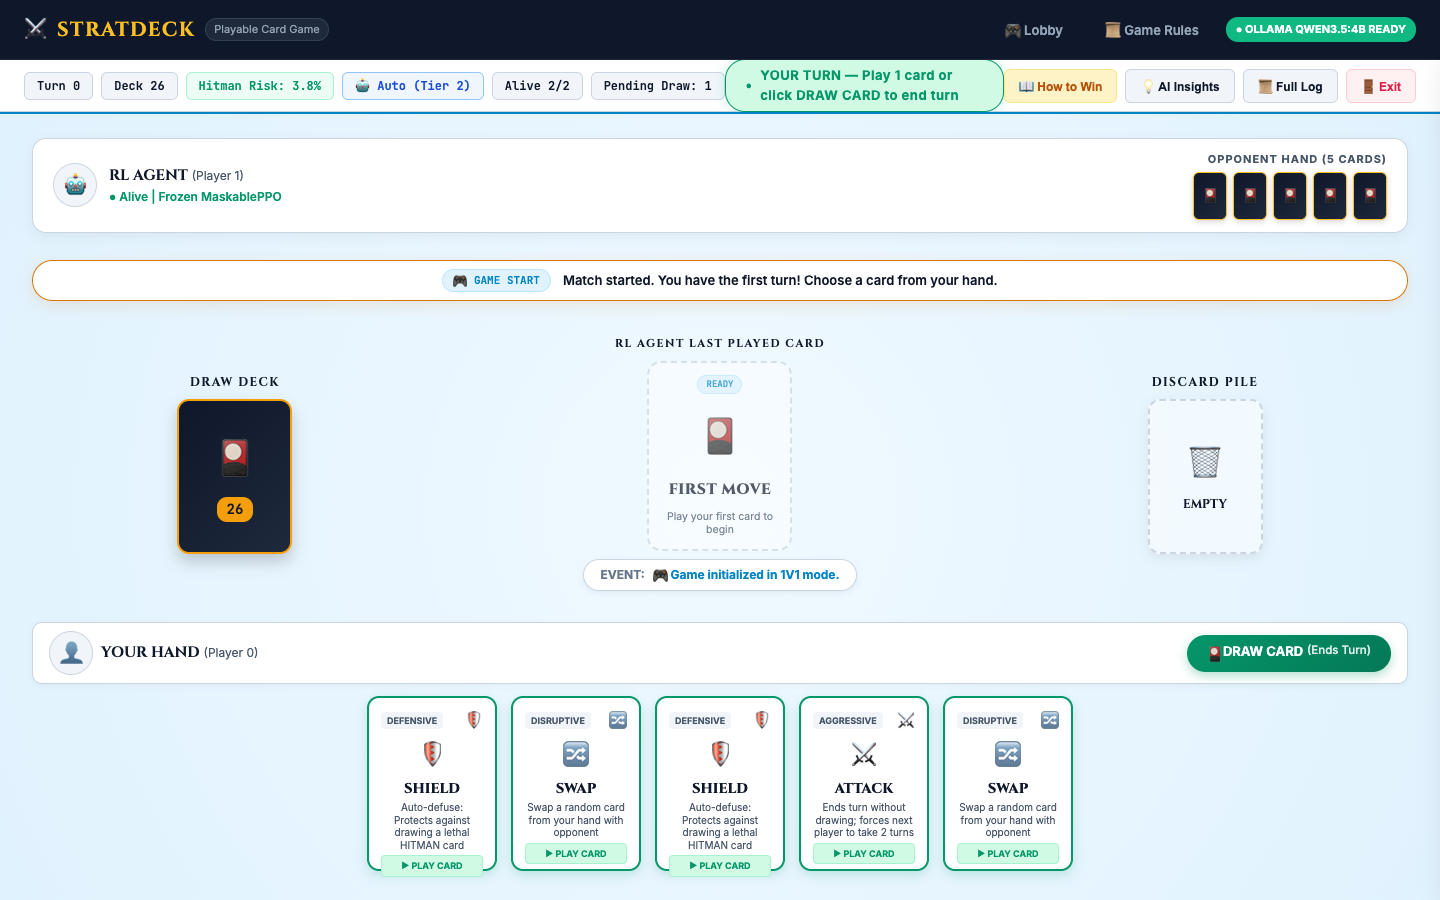
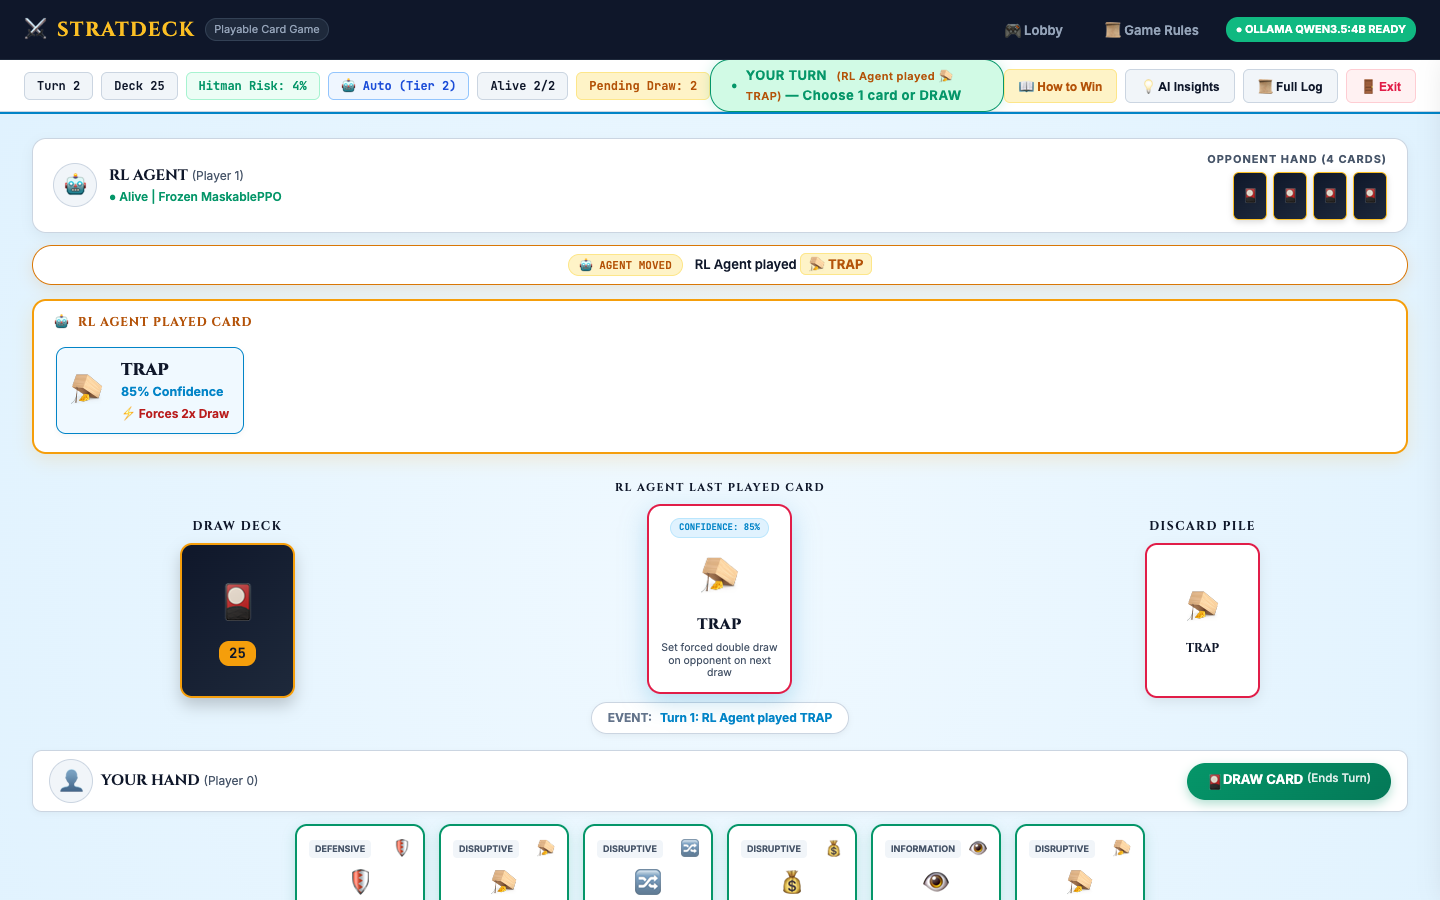
fix(game): restore RL agent played card tray, fix confidence percentage, and prevent turn freeze on attack

Changed region(s): [[0.0, 0.1556, 1.0, 1.0], [0.2188, 0.0622, 0.6562, 0.1244], [0.4375, 0.3733, 0.5625, 0.4356]]

diff --git a/ui/static/app.js b/ui/static/app.js
@@ -207,12 +207,6 @@ document.addEventListener("DOMContentLoaded", () => {
                 drw.style.right = "0px";
             }
         });
-    } else if (viewParam === "testmove") {
-        startNewGame("1v1", 2).then(() => {
-            setTimeout(() => {
-                handleDrawClick();
-            }, 300);
-        });
     } else if (viewParam === "actionlog") {
         startNewGame("1v1", 2).then(() => {
             openModal("actionLogModal");
@@ -647,9 +641,8 @@ function renderGameState(state) {
         }
     }
 
-    // 3. MULTI-ACTION ROUND SEQUENCE TRAY (HIDDEN FOR STRICT 1-ACTION-PER-TURN)
-    const seqTray = document.getElementById("aiActionSequenceTray");
-    if (seqTray) seqTray.style.display = "none";
+    // 3. RL AGENT PLAYED CARD DISPLAY
+    renderAIActionSequenceTray(seqList);
 
     // 4. AI HERO PLAYED CARD SLOT (CENTER BOARD WITH CARD DROP ANIMATION)
     const heroCard = document.getElementById("aiPlayedHeroCard");
@@ -661,7 +654,9 @@ function renderGameState(state) {
     if (latestAI) {
         const aiName = latestAI.action;
         const info = CARD_INFO[aiName] || { icon: "🤖", type: "AI Move", desc: aiName };
-        const probStr = (latestAI.probability * 100).toFixed(0);
+        const rawProb = latestAI.probability || 0.85;
+        const probVal = rawProb > 1 ? (rawProb <= 100 ? rawProb : rawProb / 100) : rawProb * 100;
+        const probStr = probVal.toFixed(0);
 
         // Re-trigger card drop animation on every agent step
         heroCard.classList.remove("card-dropping");
@@ -793,13 +788,61 @@ function renderGameState(state) {
     }
 }
 
-// MULTI-ACTION SEQUENCE TRAY (DISABLED FOR STRICT 1-ACTION-PER-TURN)
+// RENDER RL AGENT PLAYED CARD
 function renderAIActionSequenceTray(seqList) {
     const seqTray = document.getElementById("aiActionSequenceTray");
-    if (seqTray) {
+    const seqCards = document.getElementById("aiActionSequenceCards");
+    const trayTitle = document.getElementById("aiTrayTitle");
+    if (!seqTray || !seqCards) return;
+
+    if (seqList && seqList.length > 0) {
+        seqTray.classList.remove("hidden");
+        seqTray.style.display = "flex";
+        seqCards.innerHTML = "";
+        
+        if (trayTitle) {
+            trayTitle.innerText = seqList.length > 1 ? "RL AGENT PLAYED CARDS (ATTACK OBLIGATION)" : "RL AGENT PLAYED CARD";
+        }
+
+        seqList.forEach((step, idx) => {
+            const sInfo = CARD_INFO[step.action] || { icon: "🃏", type: "Action", desc: step.action };
+            const isLast = (idx === seqList.length - 1);
+            let effectNote = "";
+            if (step.action === "STEAL") effectNote = "Stole card from you";
+            else if (step.action === "SWAP") effectNote = "Swapped cards with you";
+            else if (step.action === "TRAP") effectNote = "Forces 2x Draw";
+            else if (step.action === "ATTACK") effectNote = "Forces 2 Turns onto you";
+            else if (step.action === "SPY") effectNote = "Peeked top 3 cards";
+            else if (step.action === "SKIP") effectNote = "Skipped turn";
+            else if (step.action === "REVERSE") effectNote = "Reversed turn";
+            else if (step.action === "DRAW") effectNote = "Drawn card from deck";
+
+            const rawProb = step.probability || 0.85;
+            const probVal = rawProb > 1 ? (rawProb <= 100 ? rawProb : rawProb / 100) : rawProb * 100;
+            const probStr = probVal.toFixed(0);
+
+            const stepCard = document.createElement("div");
+            stepCard.className = `sequence-card-item card-${step.action} is-core`;
+            stepCard.innerHTML = `
+                <div class="sequence-card-icon" style="font-size: 2rem; margin-right: 8px;">${sInfo.icon}</div>
+                <div class="sequence-card-details">
+                    <span class="sequence-card-title" style="font-size: 1.05rem; font-weight: 800; color: #0f172a;">${step.action}</span>
+                    <span class="sequence-card-prob" style="font-size: 0.78rem; color: #0284c7; font-weight: 700;">${probStr}% Confidence</span>
+                    ${effectNote ? `<span class="sequence-effect-badge" style="font-size: 0.75rem; color: #b91c1c; font-weight: 700; margin-top: 3px;">⚡ ${effectNote}</span>` : ''}
+                </div>
+            `;
+            seqCards.appendChild(stepCard);
+
+            if (!isLast) {
+                const arrow = document.createElement("div");
+                arrow.className = "sequence-arrow";
+                arrow.innerText = "➔";
+                seqCards.appendChild(arrow);
+            }
+        });
+    } else {
         seqTray.classList.add("hidden");
         seqTray.style.display = "none";
-        seqTray.innerHTML = "";
     }
 }
 

diff --git a/index.html b/index.html
@@ -7,7 +7,7 @@
     <link rel="preconnect" href="https://fonts.googleapis.com">
     <link rel="preconnect" href="https://fonts.gstatic.com" crossorigin>
     <link href="https://fonts.googleapis.com/css2?family=Cinzel:wght@600;700;800&family=Inter:wght@300;400;500;600;700;800&family=JetBrains+Mono:wght@400;600&display=swap" rel="stylesheet">
-    <link rel="stylesheet" href="ui/static/app.css?v=11">
+    <link rel="stylesheet" href="ui/static/app.css?v=12">
 </head>
 <body class="dark-game-theme">
     <!-- APP CONTAINER -->
@@ -193,6 +193,17 @@
                 <div id="oppPlayedBanner" class="opp-played-banner">
                     <span id="oppBannerTag" class="opp-banner-tag start-tag">🎮 GAME START</span>
                     <span id="oppPlayedText" class="opp-banner-text">Match started. You have the first turn! Choose a card from your hand.</span>
+                </div>
+
+                <!-- RL AGENT PLAYED CARD TRAY -->
+                <div id="aiActionSequenceTray" class="ai-sequence-tray hidden">
+                    <div class="sequence-tray-header">
+                        <span class="tray-icon">🤖</span>
+                        <span class="tray-title" id="aiTrayTitle">RL AGENT PLAYED CARD</span>
+                    </div>
+                    <div id="aiActionSequenceCards" class="sequence-cards-grid">
+                        <!-- Card played by RL Agent -->
+                    </div>
                 </div>
 
                 <!-- CENTER MAT: DECK, AI HERO PLAYED CARD, DISCARD -->
@@ -871,8 +882,8 @@
 
     </div>
 
-    <script src="ui/static/model_weights.js?v=11"></script>
-    <script src="ui/static/client_engine.js?v=11"></script>
-    <script src="ui/static/app.js?v=11"></script>
+    <script src="ui/static/model_weights.js?v=12"></script>
+    <script src="ui/static/client_engine.js?v=12"></script>
+    <script src="ui/static/app.js?v=12"></script>
 </body>
 </html>

diff --git a/ui/templates/index.html b/ui/templates/index.html
@@ -7,7 +7,7 @@
     <link rel="preconnect" href="https://fonts.googleapis.com">
     <link rel="preconnect" href="https://fonts.gstatic.com" crossorigin>
     <link href="https://fonts.googleapis.com/css2?family=Cinzel:wght@600;700;800&family=Inter:wght@300;400;500;600;700;800&family=JetBrains+Mono:wght@400;600&display=swap" rel="stylesheet">
-    <link rel="stylesheet" href="/static/app.css?v=11">
+    <link rel="stylesheet" href="/static/app.css?v=12">
 </head>
 <body class="dark-game-theme">
     <!-- APP CONTAINER -->
@@ -193,6 +193,17 @@
                 <div id="oppPlayedBanner" class="opp-played-banner">
                     <span id="oppBannerTag" class="opp-banner-tag start-tag">🎮 GAME START</span>
                     <span id="oppPlayedText" class="opp-banner-text">Match started. You have the first turn! Choose a card from your hand.</span>
+                </div>
+
+                <!-- RL AGENT PLAYED CARD TRAY -->
+                <div id="aiActionSequenceTray" class="ai-sequence-tray hidden">
+                    <div class="sequence-tray-header">
+                        <span class="tray-icon">🤖</span>
+                        <span class="tray-title" id="aiTrayTitle">RL AGENT PLAYED CARD</span>
+                    </div>
+                    <div id="aiActionSequenceCards" class="sequence-cards-grid">
+                        <!-- Card played by RL Agent -->
+                    </div>
                 </div>
 
                 <!-- CENTER MAT: DECK, AI HERO PLAYED CARD, DISCARD -->
@@ -871,8 +882,8 @@
 
     </div>
 
-    <script src="/static/model_weights.js?v=11"></script>
-    <script src="/static/client_engine.js?v=11"></script>
-    <script src="/static/app.js?v=11"></script>
+    <script src="/static/model_weights.js?v=12"></script>
+    <script src="/static/client_engine.js?v=12"></script>
+    <script src="/static/app.js?v=12"></script>
 </body>
 </html>

diff --git a/ui/static/client_engine.js b/ui/static/client_engine.js
@@ -595,8 +595,8 @@
         const engine = sess.engine;
         sess.recent_ai_actions = [];
 
-        // Strict 1-card-per-turn: execute exactly ONE AI action
-        if (!engine.gameOver && engine.currentPlayer === 1) {
+        // Run AI turns until turn passes back to human (prevents game from getting stuck on ATTACK)
+        while (!engine.gameOver && engine.currentPlayer === 1) {
             const obs = engine.encodeObs(1);
             const mask = engine.getActionMask(1);
 
@@ -644,16 +644,19 @@
                 {}
             );
 
+            const rawProb = pred.probability || 0.85;
+            const probPct = rawProb > 1 ? (rawProb <= 100 ? rawProb : rawProb / 100) : rawProb * 100;
+
             const decisionSummary = {
                 action: chosenName,
-                probability: parseFloat(((pred.probability || 0.85) * 100).toFixed(1)),
+                probability: parseFloat(probPct.toFixed(1)),
                 rank: 1,
                 top_legal_actions: topLegal.slice(0, 3),
                 value_estimate: parseFloat((pred.value || 0.25).toFixed(3)),
                 explanation: explanation
             };
 
-            sess.recent_ai_actions = [decisionSummary];
+            sess.recent_ai_actions.push(decisionSummary);
             sess.latest_ai_decision = decisionSummary;
 
             const res = engine.step(chosenAct);
@@ -676,6 +679,7 @@
             if (res.done) {
                 if (res.winner === 0) winHistory.push(1);
                 else if (res.winner === 1) winHistory.push(0);
+                break;
             }
         }
     }
